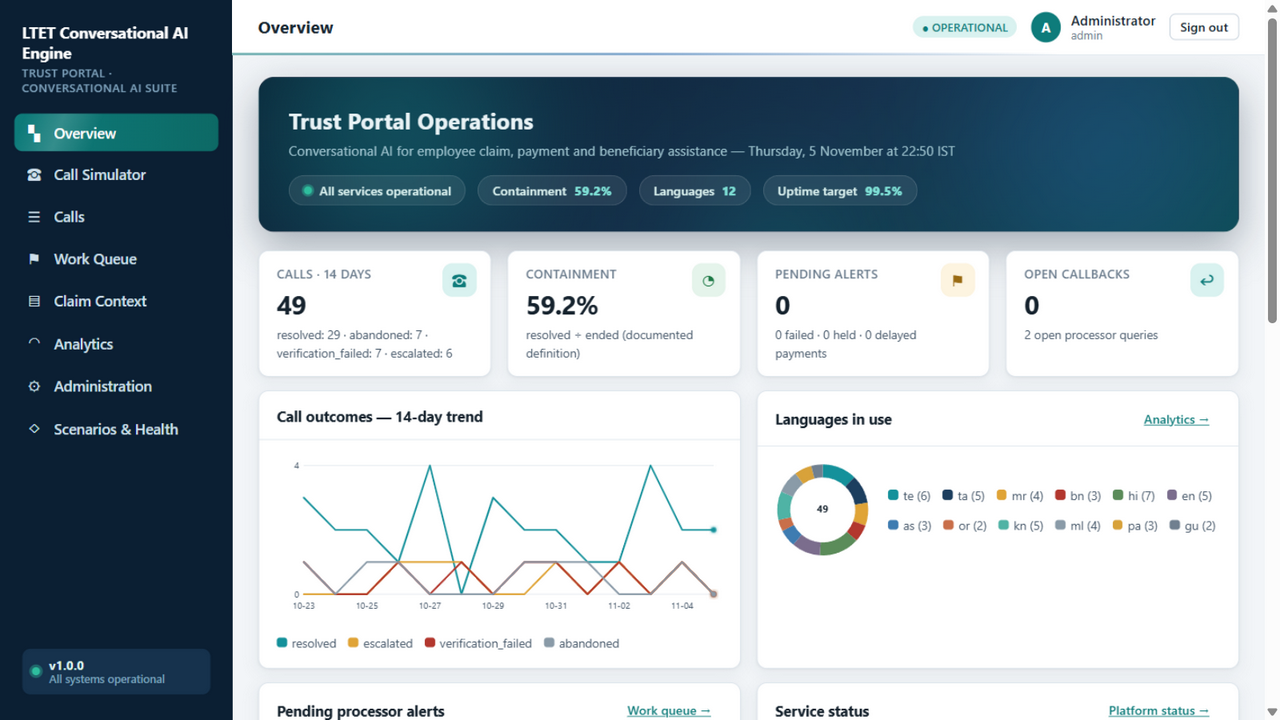
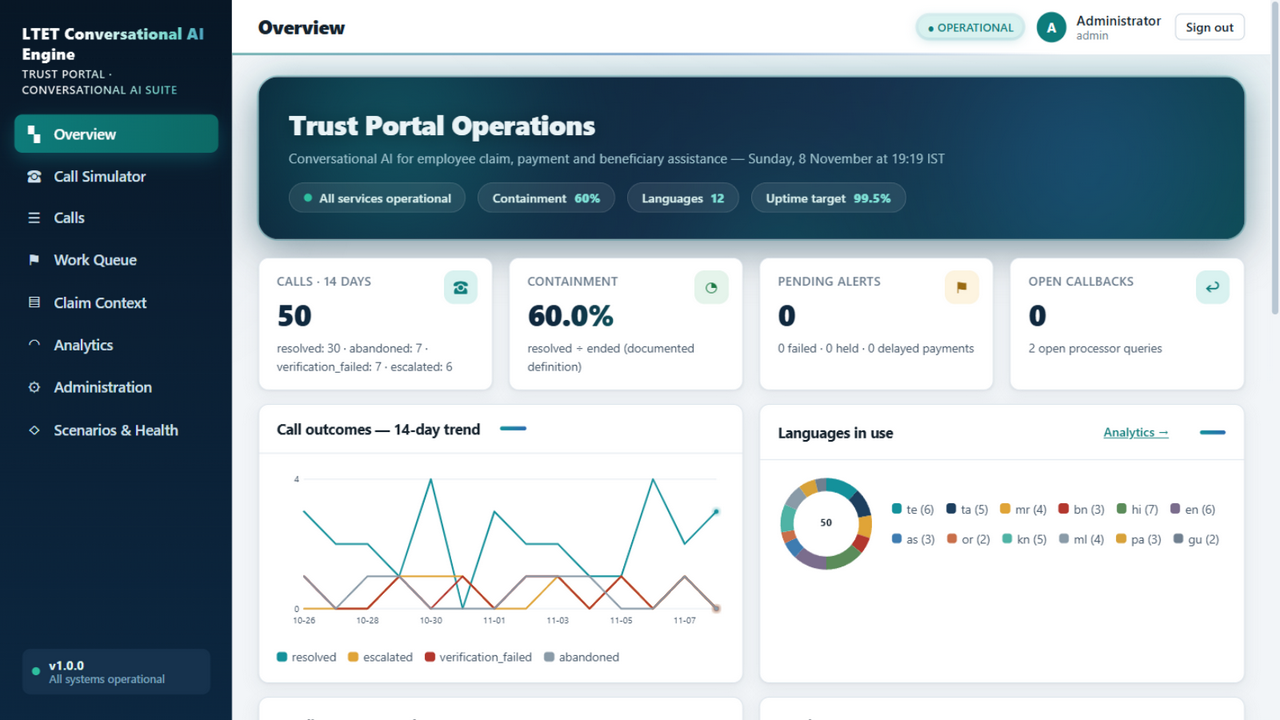
Tester pass + bold visual layer (v1.2)
Bugs found and fixed:
- Claim Context spawned a blank browser tab on every detail open (stray
  window.open) — drawer now renders in-page, verified no extra tabs.
- Simulator displayed verification codes as keypad presses in the
  conversation view — codes now render as 'entered code (hidden)' during
  challenges (SEC-04 enforced in the UI, not just the server).
- Administration 'Create draft from published' button was dead — now resets
  the editor to the published policy.
- Hero conic glow ring painted over the page in some Chromium builds
  (mask-composite) — replaced with a glow border; rendering verified.
- Prototype string 'mock LTET portal (synthetic demo data)' removed from
  Claim Context.

Bold visuals: gradient KPI display numbers, glowing hero frame, brand
gradient text, card hover accent bars, section header bars, body aurora
tint, bolder tables/buttons. Browser sweep: zero JS errors across all 8
screens + both drawers. Tests: 85/85.

diff --git a/public/styles.css b/public/styles.css
@@ -432,3 +432,61 @@ select optgroup { font-weight: 700; color: var(--navy-600); }
   color: #9ed8cf; align-self: flex-end; font-style: italic; font-size: 12.5px;
 }
 .btn.live-on { background: var(--teal-600); color: #fff; border-color: var(--teal-600); box-shadow: 0 0 0 3px rgba(20, 145, 155, 0.18); }
+
+/* =====================================================================
+   Bold visual pass v1.2 — eye-catching, still enterprise
+   ===================================================================== */
+body {
+  background:
+    radial-gradient(1200px 500px at 85% -10%, rgba(20, 145, 155, 0.07), transparent 60%),
+    radial-gradient(900px 420px at -10% 30%, rgba(29, 63, 95, 0.06), transparent 55%),
+    var(--bg);
+}
+
+/* gradient display numbers — the KPI hero moment */
+.kpi .value {
+  font-size: 30px; font-weight: 800; letter-spacing: -0.8px;
+  background: linear-gradient(120deg, var(--navy-800) 20%, var(--teal-600) 75%);
+  -webkit-background-clip: text; background-clip: text;
+  -webkit-text-fill-color: transparent; color: var(--teal-600);
+}
+
+/* hero: bold frame (masked conic ring removed - painted over the hero in some Chromium builds) */
+.hero { border-radius: 20px; box-shadow: 0 14px 40px rgba(11,31,51,.35), 0 0 0 1.5px rgba(20,145,155,.35), 0 0 34px rgba(20,145,155,.22); }
+.hero h2 { font-size: 27px; font-weight: 800; letter-spacing: -0.3px; text-shadow: 0 2px 18px rgba(0,0,0,.35); }
+
+/* sidebar: deep gradient + brand glow + glowing active item */
+.sidebar { background: linear-gradient(180deg, #081726 0%, var(--navy-900) 40%, #0c2740 100%); }
+.brand {
+  font-size: 16px; font-weight: 800;
+  background: linear-gradient(100deg, #ffffff 30%, #6fd6cc 75%, #2b6cb0);
+  -webkit-background-clip: text; background-clip: text; -webkit-text-fill-color: transparent;
+}
+.nav-item.active { box-shadow: 0 6px 18px rgba(20, 145, 155, 0.35); }
+
+/* card top accent: teal bar grows on hover */
+.card { position: relative; }
+.card::before {
+  content: ""; position: absolute; top: 0; left: 0; right: 0; height: 3px;
+  border-radius: var(--radius) var(--radius) 0 0;
+  background: linear-gradient(90deg, var(--teal-500), #2b6cb0);
+  transform: scaleX(0); transform-origin: left; transition: transform 0.35s var(--ease-out-soft);
+  pointer-events: none;
+}
+.card:hover::before { transform: scaleX(1); }
+.card .card-h h3 { font-weight: 750; letter-spacing: -0.1px; }
+.card .card-h::after {
+  content: ""; display: inline-block; width: 26px; height: 4px; border-radius: 4px;
+  background: linear-gradient(90deg, var(--teal-500), #2b6cb0); margin-left: 10px; vertical-align: middle;
+}
+
+/* topbar title bolder + badge glow */
+.topbar h1 { font-weight: 800; font-size: 19px; letter-spacing: -0.2px; }
+.badge.online { box-shadow: 0 0 0 3px rgba(20, 145, 155, 0.12), 0 2px 10px rgba(20, 145, 155, 0.25); }
+
+/* primary button: deeper glow */
+.btn.primary { box-shadow: 0 6px 18px var(--teal-glow); font-weight: 700; }
+.btn.danger { font-weight: 700; }
+
+/* tables: bolder headers */
+.table th { color: var(--navy-600); font-weight: 750; }

diff --git a/public/views/simulator.js b/public/views/simulator.js
@@ -5,7 +5,7 @@ import { api, esc, state } from '../app.js';
 import { voice, localeFor } from '../voice.js';
 import { LiveMic } from '../mic.js';
 
-let sim = { sessionId: null, busy: false, ttsOn: true, rate: 1, lang: 'auto' };
+let sim = { sessionId: null, busy: false, ttsOn: true, rate: 1, lang: 'auto', state: null };
 let presets = [
   { label: 'Linked employee (Arjun, 7 claims)', number: '+91 55555 50001' },
   { label: 'Linked employee (Priya, query claim)', number: '+91 55555 50002' },
@@ -292,7 +292,14 @@ export async function renderSimulator(root, params = {}) {
     if (!sim.sessionId) { alert('Start a call first.'); return; }
     if (sim.busy) return;
     if (evt.type === 'utterance') addLocal('Caller', evt.text, 'caller');
-    if (evt.type === 'keypad') addLocal('Keypad', evt.digits === '*' ? '*' : `pressed ${evt.digits}`, 'keypad');
+    if (evt.type === 'keypad') {
+      // SEC-04 in the UI too: verification codes never display in the
+      // conversation view, even as keypresses. Other keypad entries (PS,
+      // claim selection) are shown as pressed.
+      const duringChallenge = sim.state === 'challenge_pending';
+      addLocal('Keypad', evt.digits === '*' ? '*'
+        : duringChallenge ? 'entered code (hidden)' : `pressed ${evt.digits}`, 'keypad');
+    }
     sim.busy = true;
     try {
       const r = await api('POST', `/api/calls/${sim.sessionId}/events`, evt);
@@ -309,6 +316,7 @@ export async function renderSimulator(root, params = {}) {
 
   function applySession(s) {
     const chip = $('#state-chip');
+    sim.state = s.state;
     chip.textContent = s.state;
     $('#phone-lang').textContent = `lang: ${s.language || 'en'}`;
     $('#phone-status').innerHTML = s.state === 'ended'

diff --git a/public/views/admin.js b/public/views/admin.js
@@ -59,7 +59,10 @@ export async function renderAdmin(root) {
       </div></div>`;
 
     const $ = (s) => root.querySelector(s);
-    $('#edit-policy').addEventListener('click', () => { /* textarea already holds published doc */ });
+    $('#edit-policy').addEventListener('click', () => {
+      $('#policy-doc').value = JSON.stringify(stripPrivate(policy.published), null, 2);
+      $('#policy-msg').innerHTML = '<div class="note info">Editor reset to the published policy — adjust values, then save as draft.</div>';
+    });
     $('#validate').addEventListener('click', async () => {
       try {
         const doc = JSON.parse($('#policy-doc').value);

diff --git a/server/routes/staff.js b/server/routes/staff.js
@@ -131,7 +131,7 @@ r.get('/claims/:id/context', (req, res) => {
     payment: payment || null,
     document_history: history,
     call_entries: callEntries,
-    source_note: 'mock LTET portal (synthetic demo data); freshness = portal updated_at',
+    source_note: 'platform data service; freshness = record updated_at',
     payment_freshness: payment?.updated_at || null,
   });
 });

diff --git a/public/views/claimcontext.js b/public/views/claimcontext.js
@@ -34,7 +34,6 @@ export async function renderClaimContext(root) {
       alert(e.payload?.error === 'claim_outside_your_stage_scope' ? 'This claim is outside your stage scope.' : e.message);
       return;
     }
-    const w = window.open('', '_blank');
     const d = document.createElement('div');
     d.innerHTML = detailHtml(c);
     document.body.appendChild(d);
